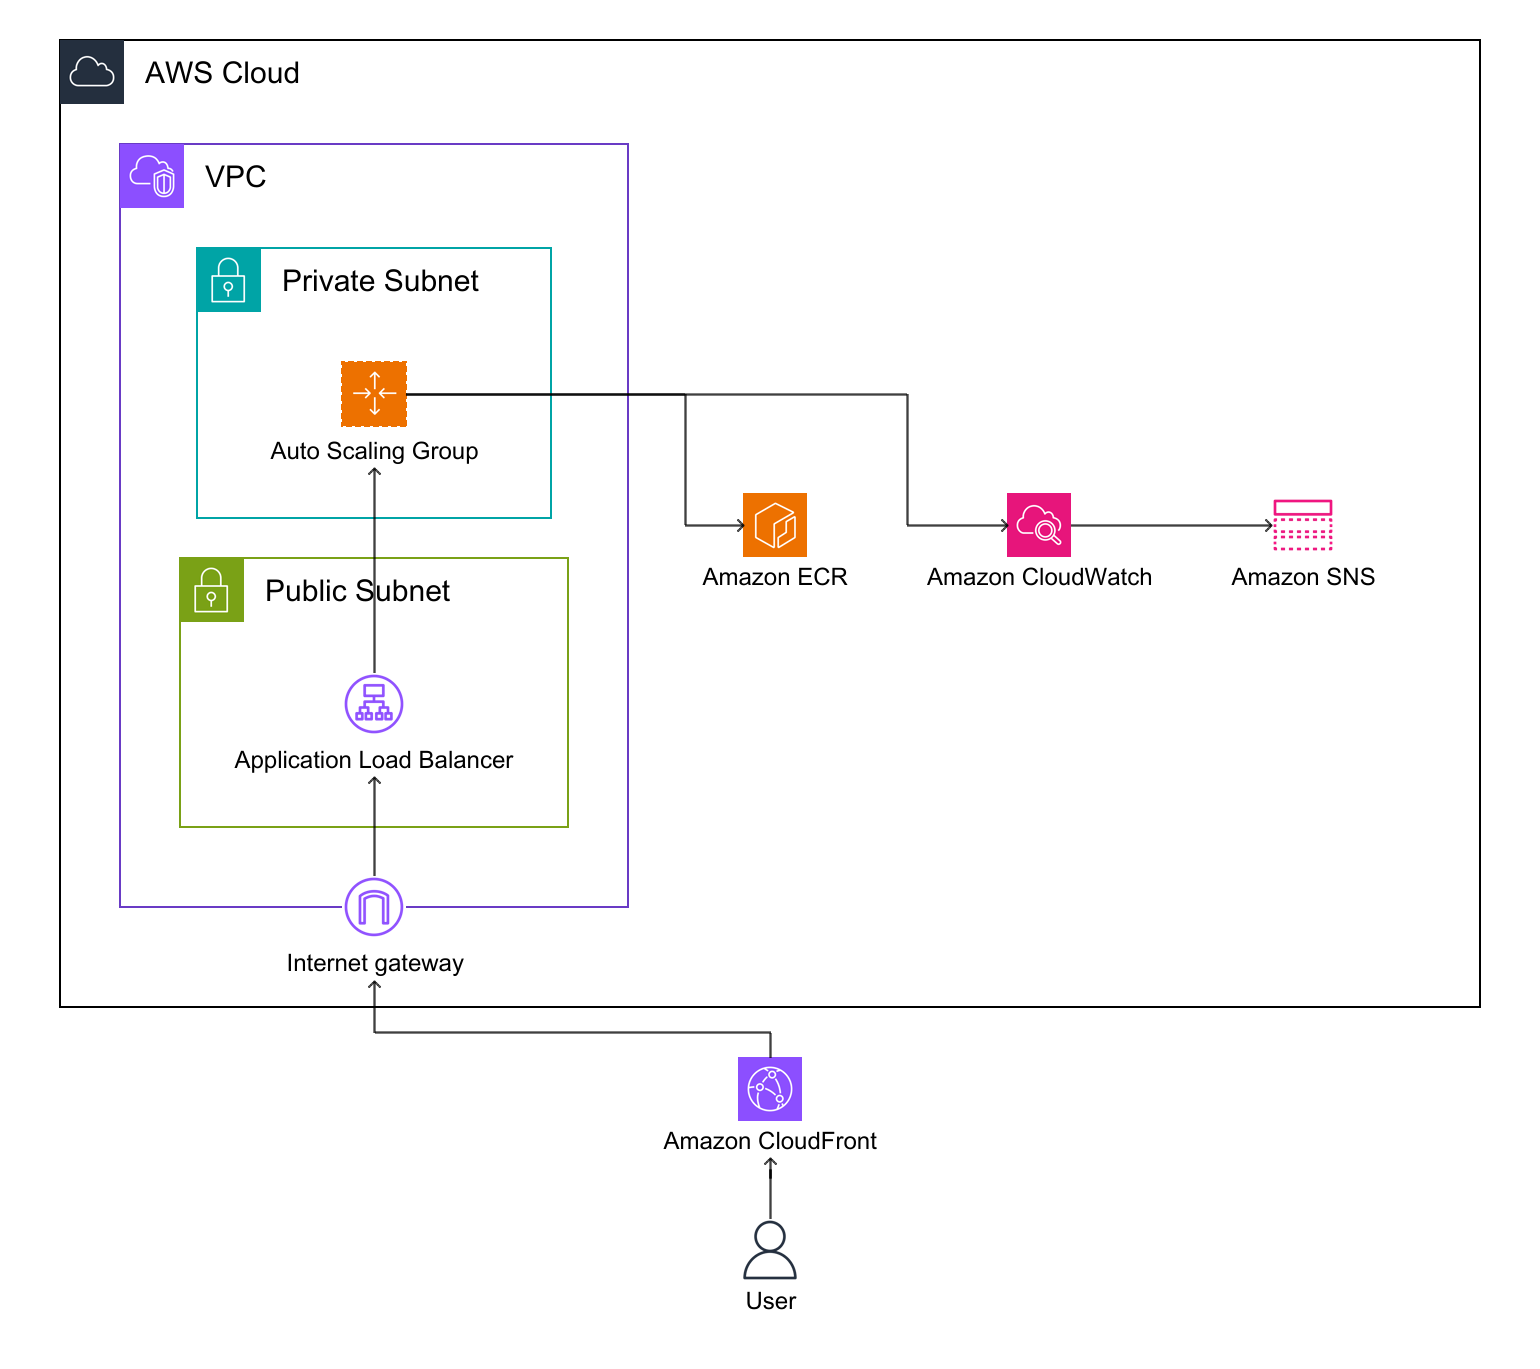
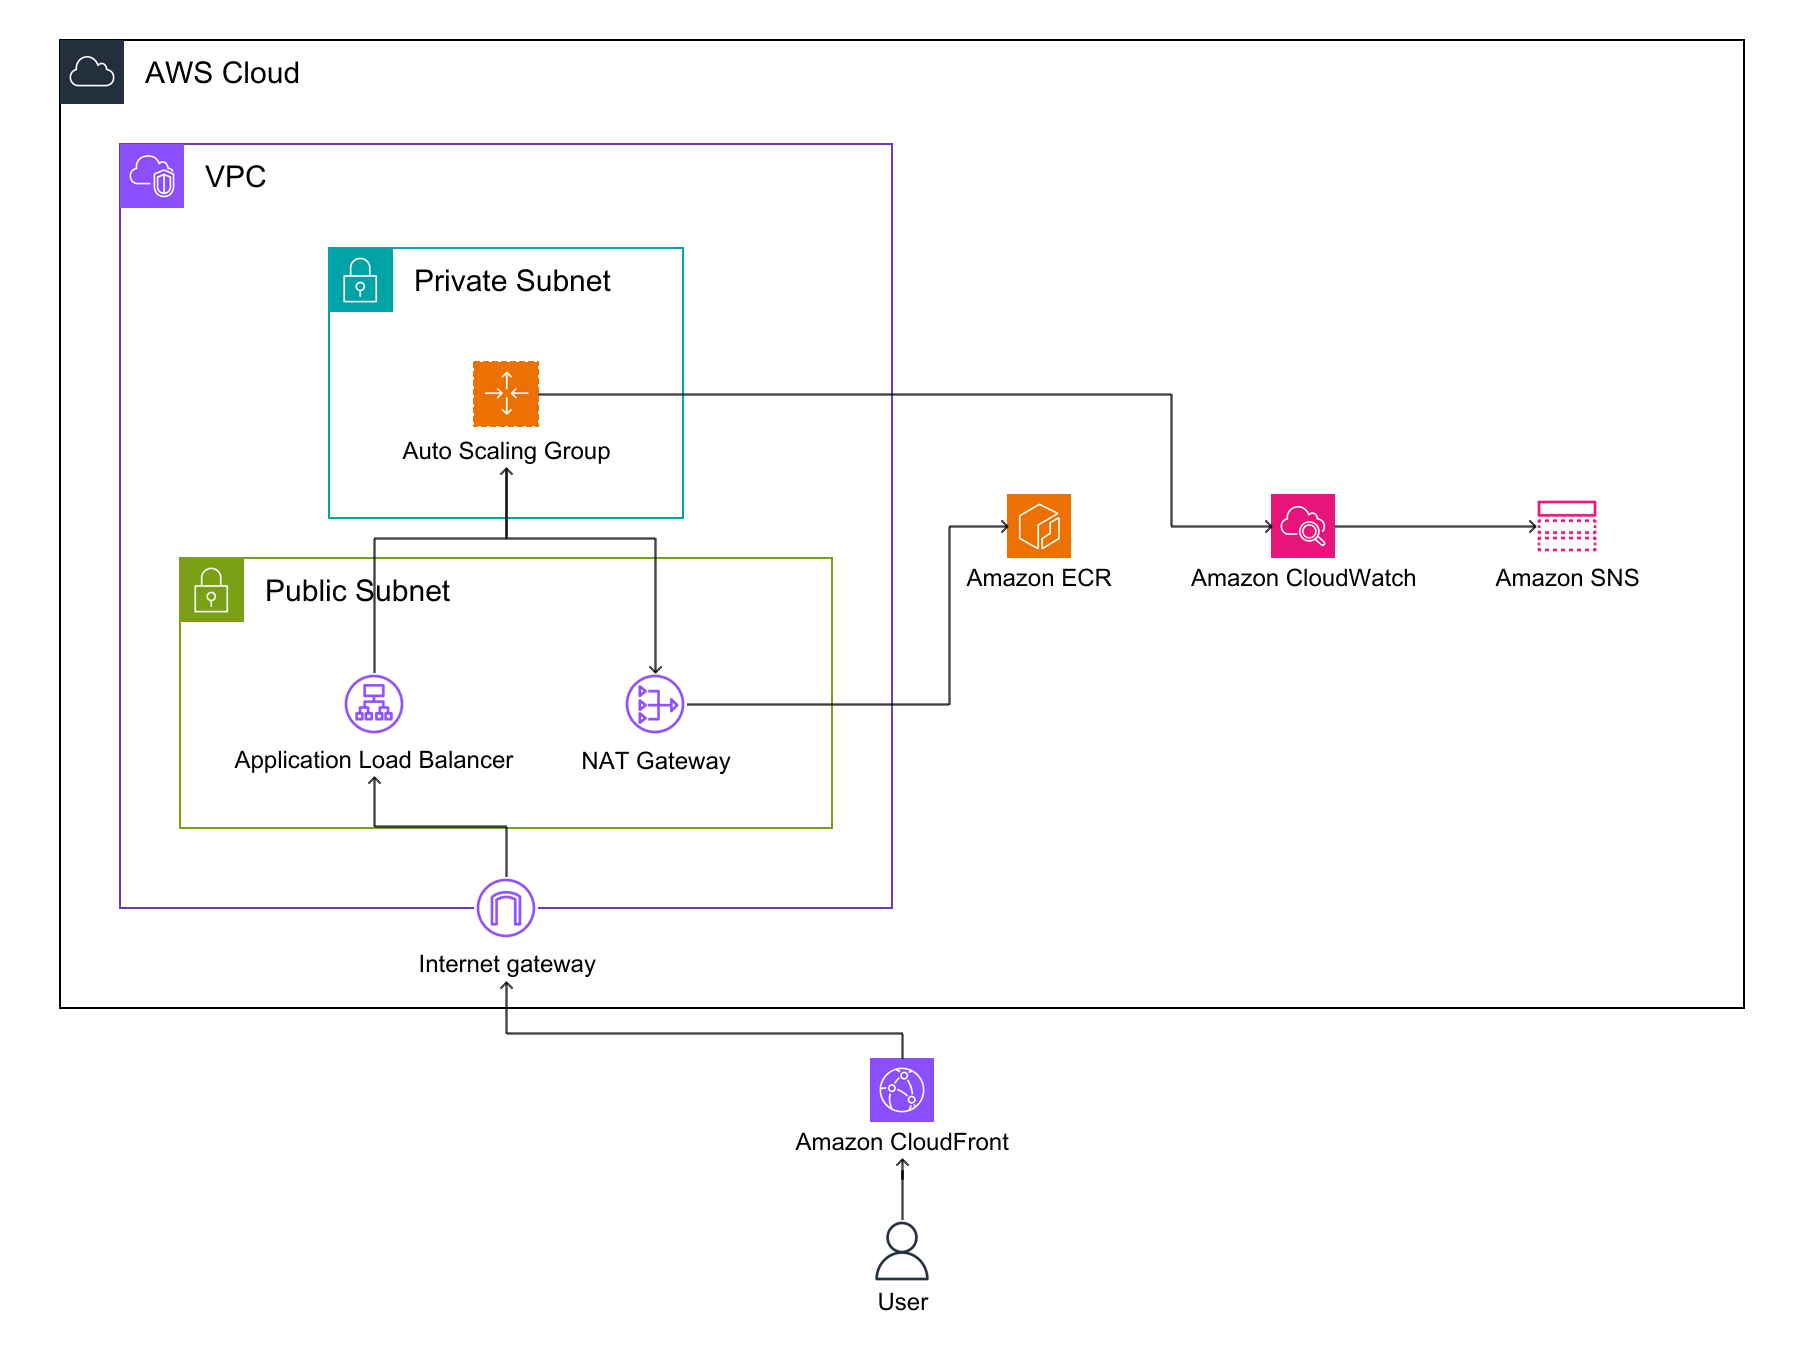
feat(infra): replace VPC endpoints with NAT Gateway, redraw diagrams, update costs

diff --git a/README.md b/README.md
@@ -1,6 +1,6 @@
 # Option 1: Auto Scaling Web Application on EC2 with CloudFront Caching
 
-Independent infrastructure and application source code for **Option 1: Auto Scaling Web Application on EC2 (ALB + ASG in Private Subnets) with Amazon CloudFront Edge Caching**.
+Independent infrastructure and application source code for **Option 1: Auto Scaling Web Application on EC2 (ALB + ASG in Private Subnets) with Amazon CloudFront Edge Caching and AWS NAT Gateway**.
 
 ## 1. Architecture Overview
 ![Architecture](infra/architecture_diagram.png)
@@ -8,6 +8,7 @@ Independent infrastructure and application source code for **Option 1: Auto Scal
 ### Key Architectural Highlights:
 - **CloudFront CDN Edge Caching:** Optimized caching for static assets (`/_next/static/*`, images), offloading 80–90% of requests from origin servers, lowering TTFB, and accelerating global page load times.
 - **Application Load Balancer (ALB):** Resides in Multi-AZ Public Subnets, distributing incoming HTTP/HTTPS requests with lightweight health checking via `/api/health`.
+- **AWS NAT Gateway:** Deployed in the Public Subnet with an Elastic IP, enabling EC2 instances in Private Subnets to pull container images from Amazon ECR, send logs, and fetch OS security patches securely without inbound internet exposure.
 - **Auto Scaling Group (ASG):** Securely deployed in **Private Subnets (AZ1 & AZ2)**, automatically scaling EC2 instance counts based on CPU utilization (70% target tracking).
 - **Zero-Downtime Rolling Update:** Integrated `aws autoscaling start-instance-refresh` in CI/CD rolls out updated container versions sequentially without service interruption.
 - **Automated Monitoring & Alerts:** CloudWatch Alarms (ALB 5XX and ASG CPU > 85%) connected to SNS Topic for immediate email notification; CloudWatch LogGroups auto-expire logs after 14 days (Dev) / 30 days (Prod) for cost optimization.
@@ -20,22 +21,21 @@ Independent infrastructure and application source code for **Option 1: Auto Scal
 ### A. Component Cost Breakdown (Infracost CLI Verified)
 | CloudFormation Module / Component | AWS Resource Type | Monthly Cost (USD) | Notes |
 | :--- | :--- | :--- | :--- |
+| **AWS NAT Gateway** | `AWS::EC2::NatGateway` | **$32.85** | Managed NAT Gateway in Public Subnet (0.0.0.0/0 egress) |
 | **Application Load Balancer (ALB)** | `AWS::ElasticLoadBalancingV2::LoadBalancer` | **$16.43** | Fixed balancer charge spanning Multi-AZ |
 | **Web Compute (Auto Scaling Group)** | `AWS::AutoScaling::AutoScalingGroup` (`t3.micro`) | **$9.49** | Baseline 1x instance (730 hrs/month) |
 | **Secrets & Monitoring** | `SecretsManager`, `CloudWatch`, `SNS` | **$0.30** | Auth token secret + operational alarms |
-| **Subtotal (Core Web Application Tier)** | `infra/modules/app.yaml` | **$26.22 / mo** | ~664,000 VND / month |
-| **Private VPC Interface Endpoints (Optional)** | `AWS::EC2::VPCEndpoint` (7 endpoints) | **$102.20** | SSM, ECR, CloudWatch Logs in Private Subnets |
-| **Total (Full Enterprise Isolated Architecture)** | `infra/modules/` | **$128.42 / mo** | ~3,250,000 VND / month |
+| **Total Monthly Cost** | `infra/modules/` | **$59.07 / mo** | ~1,495,000 VND / month |
 
-### B. Cost by Purchasing Option & Architecture Mode
-| Purchasing Model / Mode | Web Compute (`t3.micro`) | ALB & Supporting | Total (Lean Mode)* | Total (Full Isolated) | Approx. Local Currency (Lean) |
-| :--- | :--- | :--- | :--- | :--- | :--- |
-| **On-Demand (Default)** | $9.49 | $16.73 | **$26.22 / mo** | **$128.42 / mo** | ~664,000 VND |
-| **1-Year Savings Plan** | $5.98 | $16.73 | **$22.71 / mo** *(13% off)* | **$124.91 / mo** | ~575,000 VND |
-| **3-Year Savings Plan** | $3.79 | $16.73 | **$20.52 / mo** *(22% off)* | **$122.72 / mo** | ~520,000 VND |
-| **Spot Instance (Dev/Test)** | $2.84 | $16.73 | **$19.57 / mo** *(25% off)* | **$121.77 / mo** | ~496,000 VND |
+*(Tiết kiệm **$69.35 / tháng** so với mô hình cũ sử dụng 7 VPC Interface Endpoints $102.20/tháng).*
 
-*\*Lean Mode: Compute + ALB + CloudFront routing without dedicated VPC Interface Endpoints ($102.20/mo).*
+### B. Cost by Purchasing Option & Commitment
+| Purchasing Model | Web Compute (`t3.micro`) | NAT Gateway & ALB | Total Monthly Cost | Approx. Local Currency (VND) |
+| :--- | :--- | :--- | :--- | :--- |
+| **On-Demand (Default)** | $9.49 | $49.58 | **$59.07 / mo** | ~1,495,000 VND |
+| **1-Year Savings Plan** | $5.98 | $49.58 | **$55.56 / mo** *(6% savings)* | ~1,405,000 VND |
+| **3-Year Savings Plan** | $3.79 | $49.58 | **$53.37 / mo** *(10% savings)* | ~1,350,000 VND |
+| **Spot Instance (Dev/Test)** | $2.84 | $49.58 | **$52.42 / mo** *(11% savings)* | ~1,326,000 VND |
 
 ## 3. Disaster Recovery & Recovery Time (MTTR)
 
